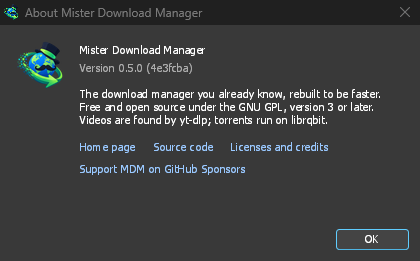
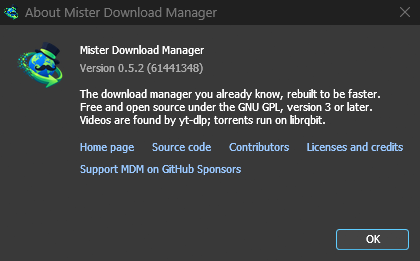
About: Contributors opens the website's page that thanks everyone (#1253)
The page is built from GitHub at every build (tools/contributors.py), so it thanks the people who
report problems too, and it never goes stale the way a roster written into the code would. The link
follows the interface language: the site has /de/contributors.html and /ar/contributors.html, with
English at the root, as page_url's pages do.

Carries #1253, whose author @9M2PJU handed it over, in the smaller form @anefzaoui asked for: no
list and no roles in the window, one link beside Source code.

The docs' About picture is taken again (about-updates). The new row stays English in the other
languages until tools/i18n/translate.py runs: there is no OpenRouter key here, so the translations
are the maintainer's to make.

diff --git a/crates/app/src/help.rs b/crates/app/src/help.rs
@@ -66,6 +66,14 @@ pub fn page_url(doc: &str, lang: &str) -> String {
     format!("{SITE}{folder}{path}{anchor}")
 }
 
+/// The website's page that thanks everyone who sent a pull request, opened an issue or joined a
+/// conversation (About's **Contributors**), in the language `lang` when the site has it. Not a
+/// guide page: [`page_url`] would map it under `/help/`.
+fn contributors_page(lang: &str) -> String {
+    let folder = site_lang(lang).map(|l| format!("/{l}")).unwrap_or_default();
+    format!("{SITE}{folder}/contributors.html")
+}
+
 /// Open a page of the user guide on the website, in the interface language when the site has
 /// it (`doc` as page_url takes it: `"video.md"`, `"README.md#tutorials"`, `""` the home page).
 /// Never in an off-screen test run (MDM_OFFSCREEN), whose clicks come from scripts, not from a
@@ -786,9 +794,10 @@ impl About {
                     x += w + 18.0;
                     at
                 };
-                let (home, source, credits) = (
+                let (home, source, people, credits) = (
                     place("Home page"),
                     place("Source code"),
+                    place("Contributors"),
                     place("Licenses and credits"),
                 );
                 if winui::link(ui, &p, home.0, home.1, "Home page", "home") {
@@ -796,6 +805,13 @@ impl About {
                 }
                 if winui::link(ui, &p, source.0, source.1, "Source code", "source") {
                     crate::launch::open(REPO);
+                }
+                // Who sent the pull requests, opened the issues and joined the conversations: the
+                // website builds the list from GitHub at every build, so it is never stale.
+                if winui::link(ui, &p, people.0, people.1, "Contributors", "contributors")
+                    && !crate::offscreen()
+                {
+                    crate::launch::open(contributors_page(crate::i18n::code()));
                 }
                 if winui::link(
                     ui,
@@ -1415,6 +1431,30 @@ mod tests {
             .filter_map(|l| l.trim().strip_prefix("(\"")?.split('"').next())
             .collect();
         assert_eq!(codes, SITE_LANGS);
+    }
+
+    #[test]
+    fn the_contributors_page_is_the_websites_in_every_language() {
+        // English is at the root (SITE_LANGS leaves it out); the others get their folder, as
+        // page_url's pages do.
+        assert_eq!(
+            contributors_page("en"),
+            "https://misterdownloadmanager.com/contributors.html"
+        );
+        assert_eq!(
+            contributors_page("de"),
+            "https://misterdownloadmanager.com/de/contributors.html"
+        );
+        // A regional code reads its base language.
+        assert_eq!(
+            contributors_page("es-mx"),
+            "https://misterdownloadmanager.com/es/contributors.html"
+        );
+        // The site has Simplified Chinese only.
+        assert_eq!(
+            contributors_page("zh-hant"),
+            "https://misterdownloadmanager.com/contributors.html"
+        );
     }
 
     /// Every user guide page the program links to (`doc` as page_url takes it): the literal

diff --git a/CHANGELOG.md b/CHANGELOG.md
@@ -42,6 +42,7 @@ Each release's notes on GitHub come from its section here (`## [X.Y.Z]`, see
 - Linux and macOS: a yt-dlp installed by the system (a package manager, Homebrew) is found and used when MDM has none of its own; **Helpers** can still switch to MDM's own copy, kept up to date ([#452](https://github.com/anefzaoui/misterdownloadmanager/issues/452)).
 - Windows: a yt-dlp, ffmpeg or gallery-dl installed on the system (winget, Scoop, Chocolatey, pip, a program's own installer) is found and used when MDM has none of its own, as on Linux and macOS; **Helpers** can switch to MDM's own copy, and the first-start offer only asks for what's missing. yt-dlp is also told about a JavaScript runtime beside its own copy, and of QuickJS (Bun, deprecated in yt-dlp, only as a last resort). A bgutil YouTube PO-token provider the person already runs (a server on 127.0.0.1:4416, a `bgutil-pot` program, an installed yt-dlp plugin) is detected; MDM never downloads or starts one ([#452](https://github.com/anefzaoui/misterdownloadmanager/issues/452), [#571](https://github.com/anefzaoui/misterdownloadmanager/issues/571)).
 - **Upload speed for torrents**, next to **Transfer rate** (part of [#357](https://github.com/anefzaoui/misterdownloadmanager/issues/357)): what a torrent sends to peers, in bytes per second, blank for anything but a torrent. A layout saved before it gets it between **Transfer rate** and **Peers**.
+- **About's links include Contributors**, which opens the website's page that thanks everyone who sent a pull request, opened an issue or joined a conversation: the page is built from GitHub at every build, so it never goes stale, and it credits the people who report problems too ([#1253](https://github.com/anefzaoui/misterdownloadmanager/pull/1253)).
 
 ### Changed
 

diff --git a/ROADMAP.md b/ROADMAP.md
@@ -1419,6 +1419,11 @@ These ship in the next version.
   [@RedemptionMHA](https://github.com/RedemptionMHA))
 - ✅ Linux: the notification area's icon has its name (KDE showed none)
   ([#1305](https://github.com/anefzaoui/misterdownloadmanager/issues/1305))
+- ✅ About's links include **Contributors**, which opens the website's page that thanks everyone who
+  sent a pull request, opened an issue or joined a conversation (built from GitHub at every build,
+  so it never goes stale): the smaller form of
+  [#1253](https://github.com/anefzaoui/misterdownloadmanager/pull/1253), whose author
+  [@9M2PJU](https://github.com/9M2PJU) handed it over
 
 ## Being worked on
 
